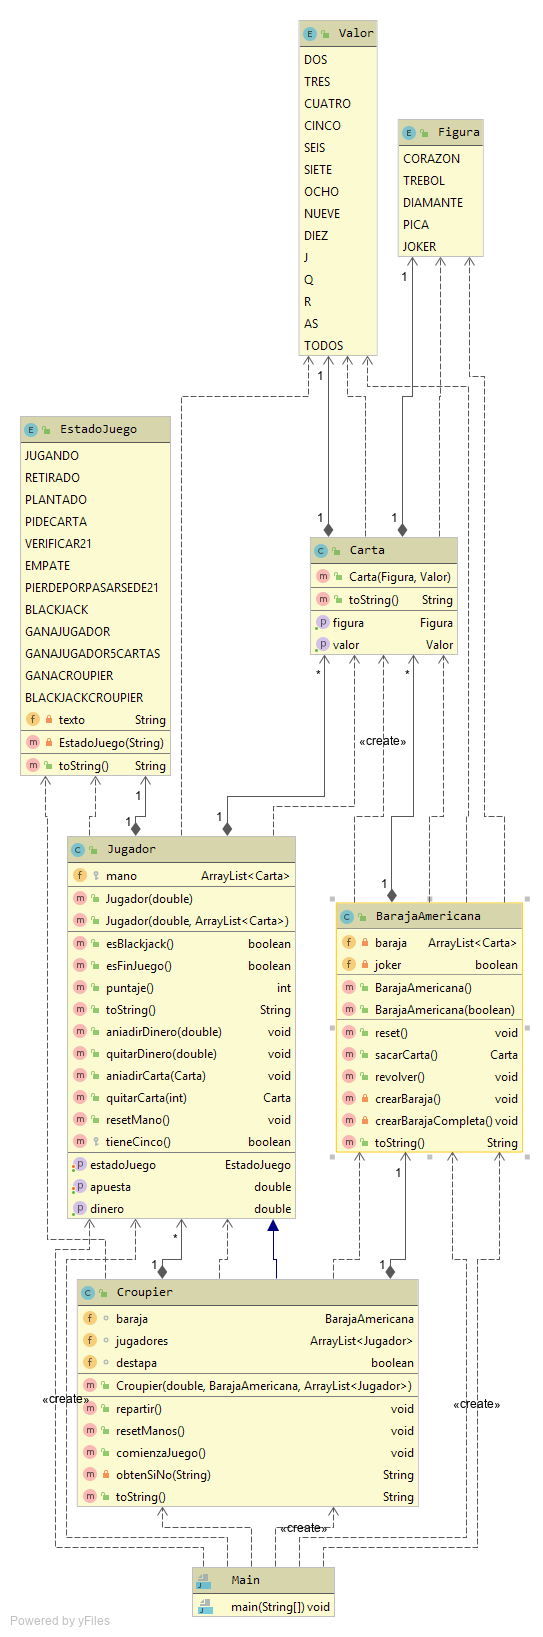
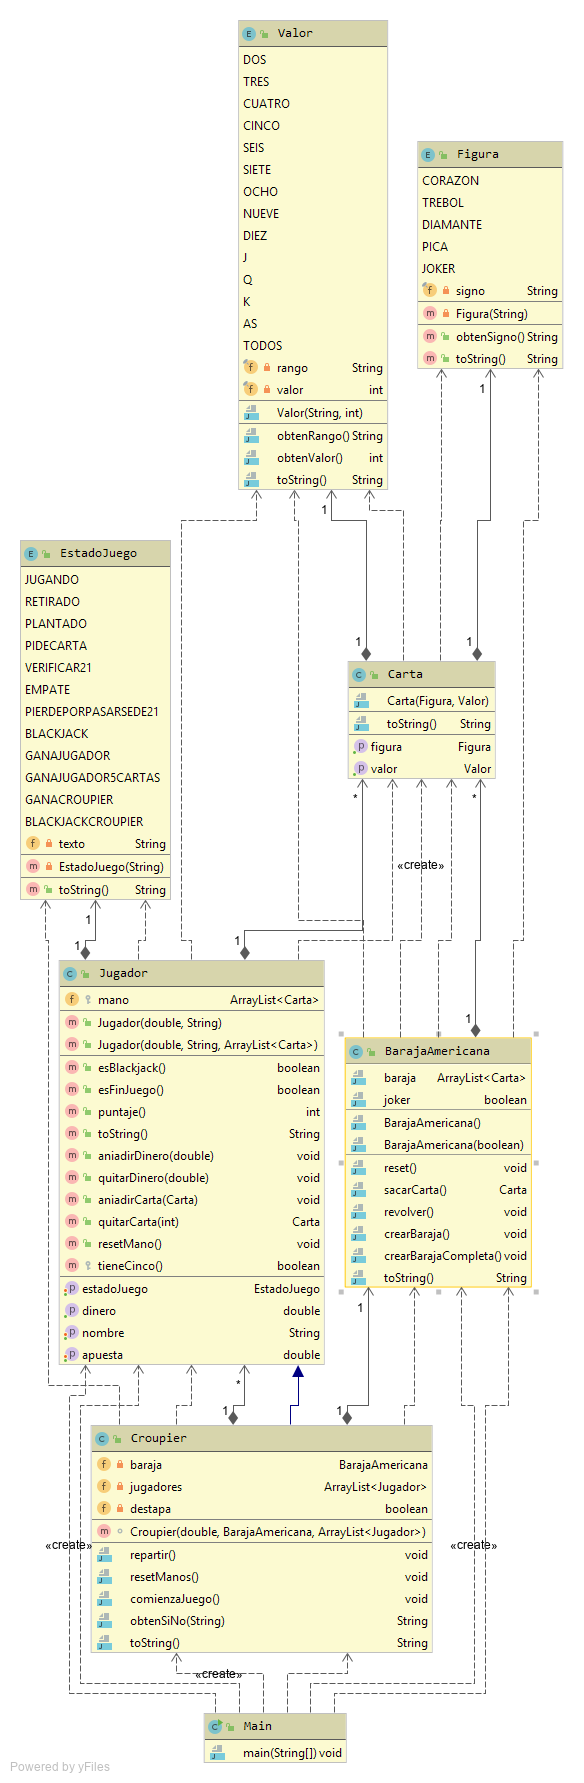
Se agregó diagrama UML y achivo README.

diff --git a/README.md b/README.md
@@ -1,0 +1,34 @@
+# Blackjack
+Tarea 2<br>
+Materia: Tecnologías de Programación de la MCC del ITC
+<br>
+### Tutor: Dra. María Lucía Barrón Estrada ##
+
+#### Autores: Víctor Bátiz y Manuel Medrano
+
+#### Lista de entregables:
+1. El código fuente se encuentra en la carpeta: src\BlackjackMV (https://github.com/vbatiz/BlackjackMV/tree/master/src/Blackjack)
+2. El Diagrama UML final: DiagramaUML.png 
+![alt text](https://github.com/vbatiz/BlackjackMV/blob/master/DiagramaUML.png)
+
+#### Descripción
+El presente proyecto es una implementación en Java del juego Blackjack. Esta desarrollado utilizando la consola como interfaz y utilizando el IDE IntelliJ IDEA Ultimate 2019.2.
+<br><br>
+En esta implementación se siguieron las siguientes indicaciones:
+##### Requisitos:
+Este proyecto consiste en escribir un conjunto de clases en Java para implementar el juego de baraja Blackjack. Posteriormente se podrán implementar otros juegos por lo que es necesario que las clases e interfaces estén diseñadas para ser reutilizadas.
+Requisitos:
+1. Modelar la baraja (paquete de cartas con número y figura). En la creación de la baraja se puede incluir o no cartas especiales (ej. jocker). La baraja puede barajarse, partirse, etc.
+2. Modelar a los jugadores que participan en el juego incluyendo al Croupier, es el jugador que tendrá la baraja, es el encargado de barajar el paquete de cartas, entregar a cada jugador las cartas, puntuar las jugadas, determinar al ganador, etc. Además, en el Blackjack el croupier también juega, así que él mismo también tiene una mano de cartas.
+3. Modelar el juego de acuerdo con los elementos que participan siguiendo las reglas (entregar cartas abiertas o cerradas, aceptar apuestas, plantarse, etc.). El croupier administra las apuestas (iniciar con apuestas básicas).
+4. Debes usar métodos para realizar los diferentes procesos del juego.
+5. El programa debe estar documentado con comentarios.
+6. Los datos de entrada se darán por teclado y deberás leerlos para saber si el jugador desea recibir o no más cartas.
+7. El juego finaliza para cada jugador cuando:
+    a) Si en la primera repartición el Jugador tiene Blackjack (21) gana y se le paga en razón de 3 a 2, a menos que el Croupier también tenga BlackJack, en ese caso es empate.
+    b) Tiene 21 puntos exactos en sus cartas (gana si el Croupier no tiene 21, si ambos tienen 21 es empate).
+    c) Se planta (no quiere más cartas cuando es su turno). Gana o pierde dependiendo de lo que tenga el Croupier.
+    d) Tiene más de 21 puntos en sus cartas (pierde).
+    e) El jugador reúne 5 cartas y no se ha pasado de 21
+8. Imprime en la pantalla los datos que permitan seguir el proceso del juego
+<br>
